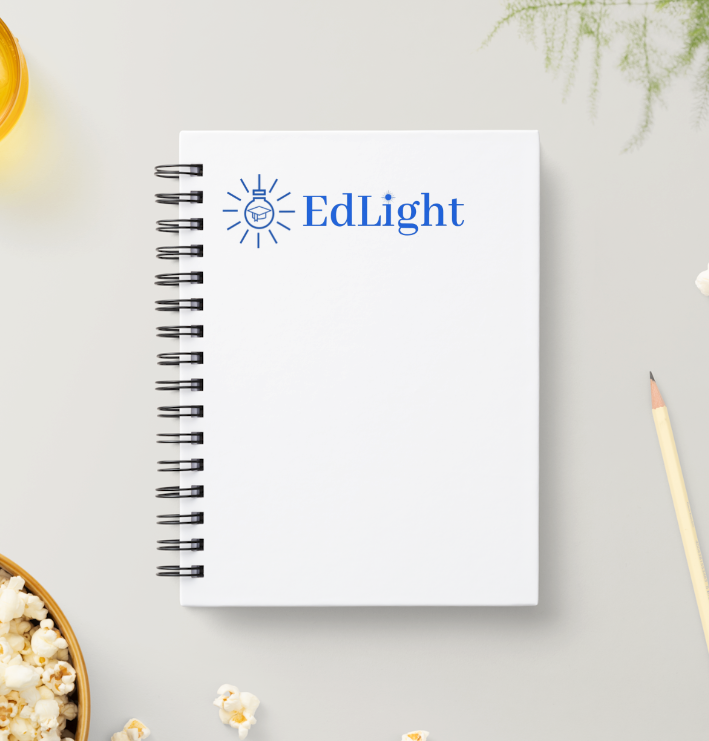
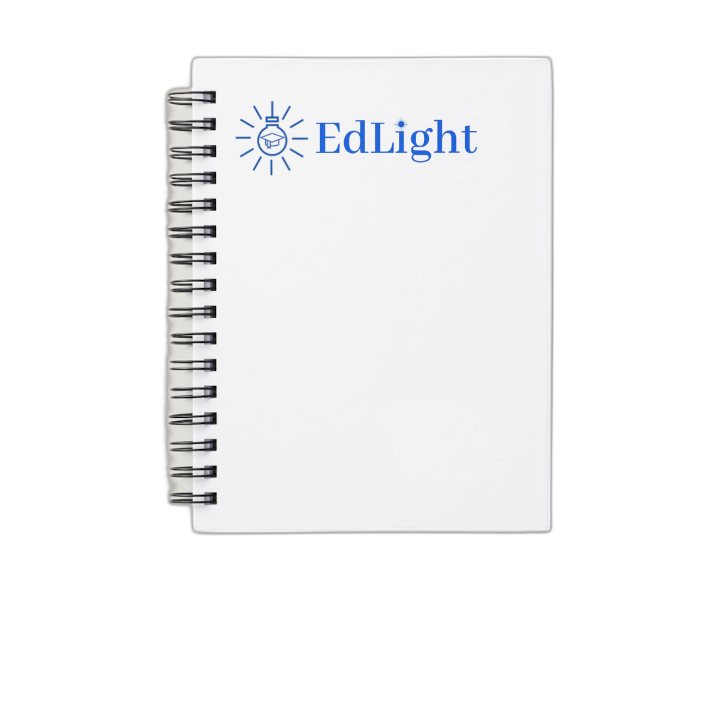
store: background-removed product photos + real 1080px sponsor kit
- Ran rembg on T-shirt, notebook, tote PNGs so they sit cleanly on paper tiles
- Generated a 1080x1080 sponsor.png composite (navy gradient, soft tray, the cut-out swag, EdLight wordmark + kit contents)
- Pointed data/store.json at sponsor.png; deleted sponsor.svg
- Dropped dangerouslyAllowSVG from next.config.ts (no longer needed)
- Added scripts/process-store-images.py for reproducibility

diff --git a/next.config.ts b/next.config.ts
@@ -7,13 +7,6 @@ const nextConfig: NextConfig = {
     NEXT_PUBLIC_BUILD_REPO: process.env.VERCEL_GIT_REPO_SLUG,
     NEXT_PUBLIC_BUILD_TIME: new Date().toISOString(),
   },
-  images: {
-    // Allow next/image to render locally-authored SVG assets (e.g. /store/sponsor.svg).
-    // CSP below blocks any script execution inside SVGs.
-    dangerouslyAllowSVG: true,
-    contentDispositionType: 'attachment',
-    contentSecurityPolicy: "default-src 'self'; script-src 'none'; sandbox;",
-  },
   eslint: {
     ignoreDuringBuilds: true,
   },

diff --git a/scripts/process-store-images.py b/scripts/process-store-images.py
@@ -1,0 +1,223 @@
+"""
+Process EdLight store imagery:
+  1) Remove backgrounds from the three product photos (tshirt, notebook, tote)
+     and write transparent PNGs back to /public/store/.
+  2) Generate a real 1080x1080 PNG for the "Sponsor a Student Kit"
+     by laying out the freshly background-removed swag on a branded backdrop.
+"""
+
+import os
+import io
+from PIL import Image, ImageDraw, ImageFilter, ImageFont
+from rembg import remove, new_session
+
+ROOT = "/workspaces/EdLight-Initiative"
+STORE_DIR = os.path.join(ROOT, "public", "store")
+
+# ---- 1. Background removal ---------------------------------------------------
+
+session = new_session("u2net")  # general-purpose; works well on isolated products
+
+source_files = {
+    "tshirt.png":  "tshirt.png",
+    "notebook.png": "notebook.png",
+    "tote.png":    "tote.png",
+}
+
+cleaned_paths = {}
+
+for src_name, out_name in source_files.items():
+    src_path = os.path.join(STORE_DIR, src_name)
+    out_path = os.path.join(STORE_DIR, out_name)
+    print(f"Removing background from {src_name} …")
+    with open(src_path, "rb") as f:
+        input_bytes = f.read()
+    output_bytes = remove(input_bytes, session=session)
+    img = Image.open(io.BytesIO(output_bytes)).convert("RGBA")
+
+    # Trim transparent padding so the product fills the frame consistently.
+    bbox = img.getbbox()
+    if bbox:
+        img = img.crop(bbox)
+
+    # Place on a square transparent canvas with even padding (8%).
+    side = max(img.size)
+    pad = int(side * 0.08)
+    canvas_size = side + pad * 2
+    canvas = Image.new("RGBA", (canvas_size, canvas_size), (0, 0, 0, 0))
+    canvas.paste(img, ((canvas_size - img.width) // 2,
+                       (canvas_size - img.height) // 2), img)
+
+    # Downscale to a sensible max (1200 px on the long edge).
+    MAX = 1200
+    if canvas.width > MAX:
+        canvas = canvas.resize((MAX, MAX), Image.LANCZOS)
+
+    canvas.save(out_path, "PNG", optimize=True)
+    cleaned_paths[out_name] = out_path
+    print(f"  → wrote {out_path} ({canvas.size})")
+
+# ---- 2. Student Kit 1080×1080 composite --------------------------------------
+
+print("\nBuilding Student Kit composite …")
+
+KIT_SIZE = 1080
+kit = Image.new("RGB", (KIT_SIZE, KIT_SIZE), (0, 0, 0))
+
+# Vertical navy gradient: #001a4d → #00102e → #000a1f
+top    = (0x00, 0x1a, 0x4d)
+mid    = (0x00, 0x10, 0x2e)
+bottom = (0x00, 0x0a, 0x1f)
+px = kit.load()
+for y in range(KIT_SIZE):
+    t = y / (KIT_SIZE - 1)
+    if t < 0.55:
+        r = t / 0.55
+        c = tuple(int(top[i] + (mid[i] - top[i]) * r) for i in range(3))
+    else:
+        r = (t - 0.55) / 0.45
+        c = tuple(int(mid[i] + (bottom[i] - mid[i]) * r) for i in range(3))
+    for x in range(KIT_SIZE):
+        px[x, y] = c
+
+# Radial blue glow in upper-right corner.
+glow = Image.new("RGBA", (KIT_SIZE, KIT_SIZE), (0, 0, 0, 0))
+gd = ImageDraw.Draw(glow)
+cx, cy, R = int(KIT_SIZE * 0.78), int(KIT_SIZE * 0.22), int(KIT_SIZE * 0.6)
+for i in range(40, 0, -1):
+    a = int(80 * (i / 40) ** 2)
+    rr = int(R * (i / 40))
+    gd.ellipse([cx - rr, cy - rr, cx + rr, cy + rr], fill=(30, 66, 159, a))
+glow = glow.filter(ImageFilter.GaussianBlur(30))
+kit = Image.alpha_composite(kit.convert("RGBA"), glow)
+
+# Faint dot-grid texture.
+dot_layer = Image.new("RGBA", (KIT_SIZE, KIT_SIZE), (0, 0, 0, 0))
+dd = ImageDraw.Draw(dot_layer)
+for y in range(0, KIT_SIZE, 28):
+    for x in range(0, KIT_SIZE, 28):
+        dd.ellipse([x, y, x + 1, y + 1], fill=(232, 226, 212, 25))
+kit = Image.alpha_composite(kit, dot_layer)
+
+# Soft card frame in the centre so the products sit on a "tray".
+card_pad = 110
+card = Image.new("RGBA", (KIT_SIZE, KIT_SIZE), (0, 0, 0, 0))
+cdraw = ImageDraw.Draw(card)
+cdraw.rounded_rectangle(
+    [card_pad, card_pad, KIT_SIZE - card_pad, KIT_SIZE - card_pad],
+    radius=18,
+    fill=(255, 255, 255, 14),
+    outline=(255, 255, 255, 46),
+    width=2,
+)
+# inner hairline
+cdraw.rounded_rectangle(
+    [card_pad + 14, card_pad + 14, KIT_SIZE - card_pad - 14, KIT_SIZE - card_pad - 14],
+    radius=10,
+    outline=(255, 255, 255, 25),
+    width=1,
+)
+kit = Image.alpha_composite(kit, card)
+
+# Place the swag items inside the card.
+def load_rgba(p):
+    return Image.open(p).convert("RGBA")
+
+tshirt   = load_rgba(cleaned_paths["tshirt.png"])
+notebook = load_rgba(cleaned_paths["notebook.png"])
+tote     = load_rgba(cleaned_paths["tote.png"])
+
+def fit(img, max_w, max_h):
+    img = img.copy()
+    img.thumbnail((max_w, max_h), Image.LANCZOS)
+    return img
+
+# Layout: tote on the left, t-shirt back-centre (largest), notebook front-right.
+tshirt_f   = fit(tshirt,   560, 560)
+tote_f     = fit(tote,     420, 460)
+notebook_f = fit(notebook, 380, 380)
+
+# Soft drop shadows for grounding.
+def with_shadow(rgba, offset=(0, 22), blur=18, opacity=110):
+    base = Image.new("RGBA", (rgba.width + 80, rgba.height + 80), (0, 0, 0, 0))
+    alpha = rgba.split()[3]
+    shadow = Image.new("RGBA", base.size, (0, 0, 0, 0))
+    shadow.paste((0, 0, 0, opacity), (40 + offset[0], 40 + offset[1]), alpha)
+    shadow = shadow.filter(ImageFilter.GaussianBlur(blur))
+    shadow.paste(rgba, (40, 40), rgba)
+    return shadow
+
+# Anchors for centres of each item (rough thirds composition).
+def paste_centered(canvas, img_with_shadow, cx, cy):
+    x = cx - img_with_shadow.width // 2
+    y = cy - img_with_shadow.height // 2
+    canvas.alpha_composite(img_with_shadow, (x, y))
+
+# t-shirt (back layer, centre, larger)
+paste_centered(kit, with_shadow(tshirt_f, offset=(0, 26), blur=22, opacity=130),
+               cx=int(KIT_SIZE * 0.52), cy=int(KIT_SIZE * 0.50))
+# tote (left, slightly lower)
+paste_centered(kit, with_shadow(tote_f, offset=(0, 22), blur=18, opacity=120),
+               cx=int(KIT_SIZE * 0.27), cy=int(KIT_SIZE * 0.56))
+# notebook (front-right)
+paste_centered(kit, with_shadow(notebook_f, offset=(0, 18), blur=16, opacity=120),
+               cx=int(KIT_SIZE * 0.74), cy=int(KIT_SIZE * 0.62))
+
+# ---- Wordmark + meta typography ---------------------------------------------
+
+def find_font(candidates, size):
+    for path in candidates:
+        if os.path.exists(path):
+            try:
+                return ImageFont.truetype(path, size)
+            except Exception:
+                continue
+    return ImageFont.load_default()
+
+sans_bold = find_font([
+    "/usr/share/fonts/truetype/dejavu/DejaVuSans-Bold.ttf",
+    "/usr/share/fonts/truetype/liberation/LiberationSans-Bold.ttf",
+], 38)
+sans_med  = find_font([
+    "/usr/share/fonts/truetype/dejavu/DejaVuSans.ttf",
+    "/usr/share/fonts/truetype/liberation/LiberationSans-Regular.ttf",
+], 18)
+mono = find_font([
+    "/usr/share/fonts/truetype/dejavu/DejaVuSansMono.ttf",
+], 16)
+
+draw = ImageDraw.Draw(kit)
+
+# Bottom-left wordmark
+draw.text((card_pad + 18, KIT_SIZE - card_pad - 78),
+          "EdLight",
+          fill=(255, 255, 255, 235),
+          font=sans_bold)
+draw.text((card_pad + 20, KIT_SIZE - card_pad - 32),
+          "SPONSOR  ·  A  ·  STUDENT",
+          fill=(255, 255, 255, 150),
+          font=sans_med)
+
+# Top-right code label
+draw.text((KIT_SIZE - card_pad - 110, card_pad + 22),
+          "KIT · 01",
+          fill=(255, 255, 255, 140),
+          font=mono)
+
+# Top-left small contents list
+contents_y = card_pad + 22
+items = ["✦  T-shirt", "✦  Tote", "✦  Notebook", "✦  Program access"]
+for line in items:
+    draw.text((card_pad + 22, contents_y),
+              line,
+              fill=(255, 255, 255, 165),
+              font=sans_med)
+    contents_y += 26
+
+# ---- Save -------------------------------------------------------------------
+
+out = os.path.join(STORE_DIR, "sponsor.png")
+kit.convert("RGB").save(out, "PNG", optimize=True)
+print(f"  → wrote {out} ({KIT_SIZE}x{KIT_SIZE})")
+
+print("\nDone.")
